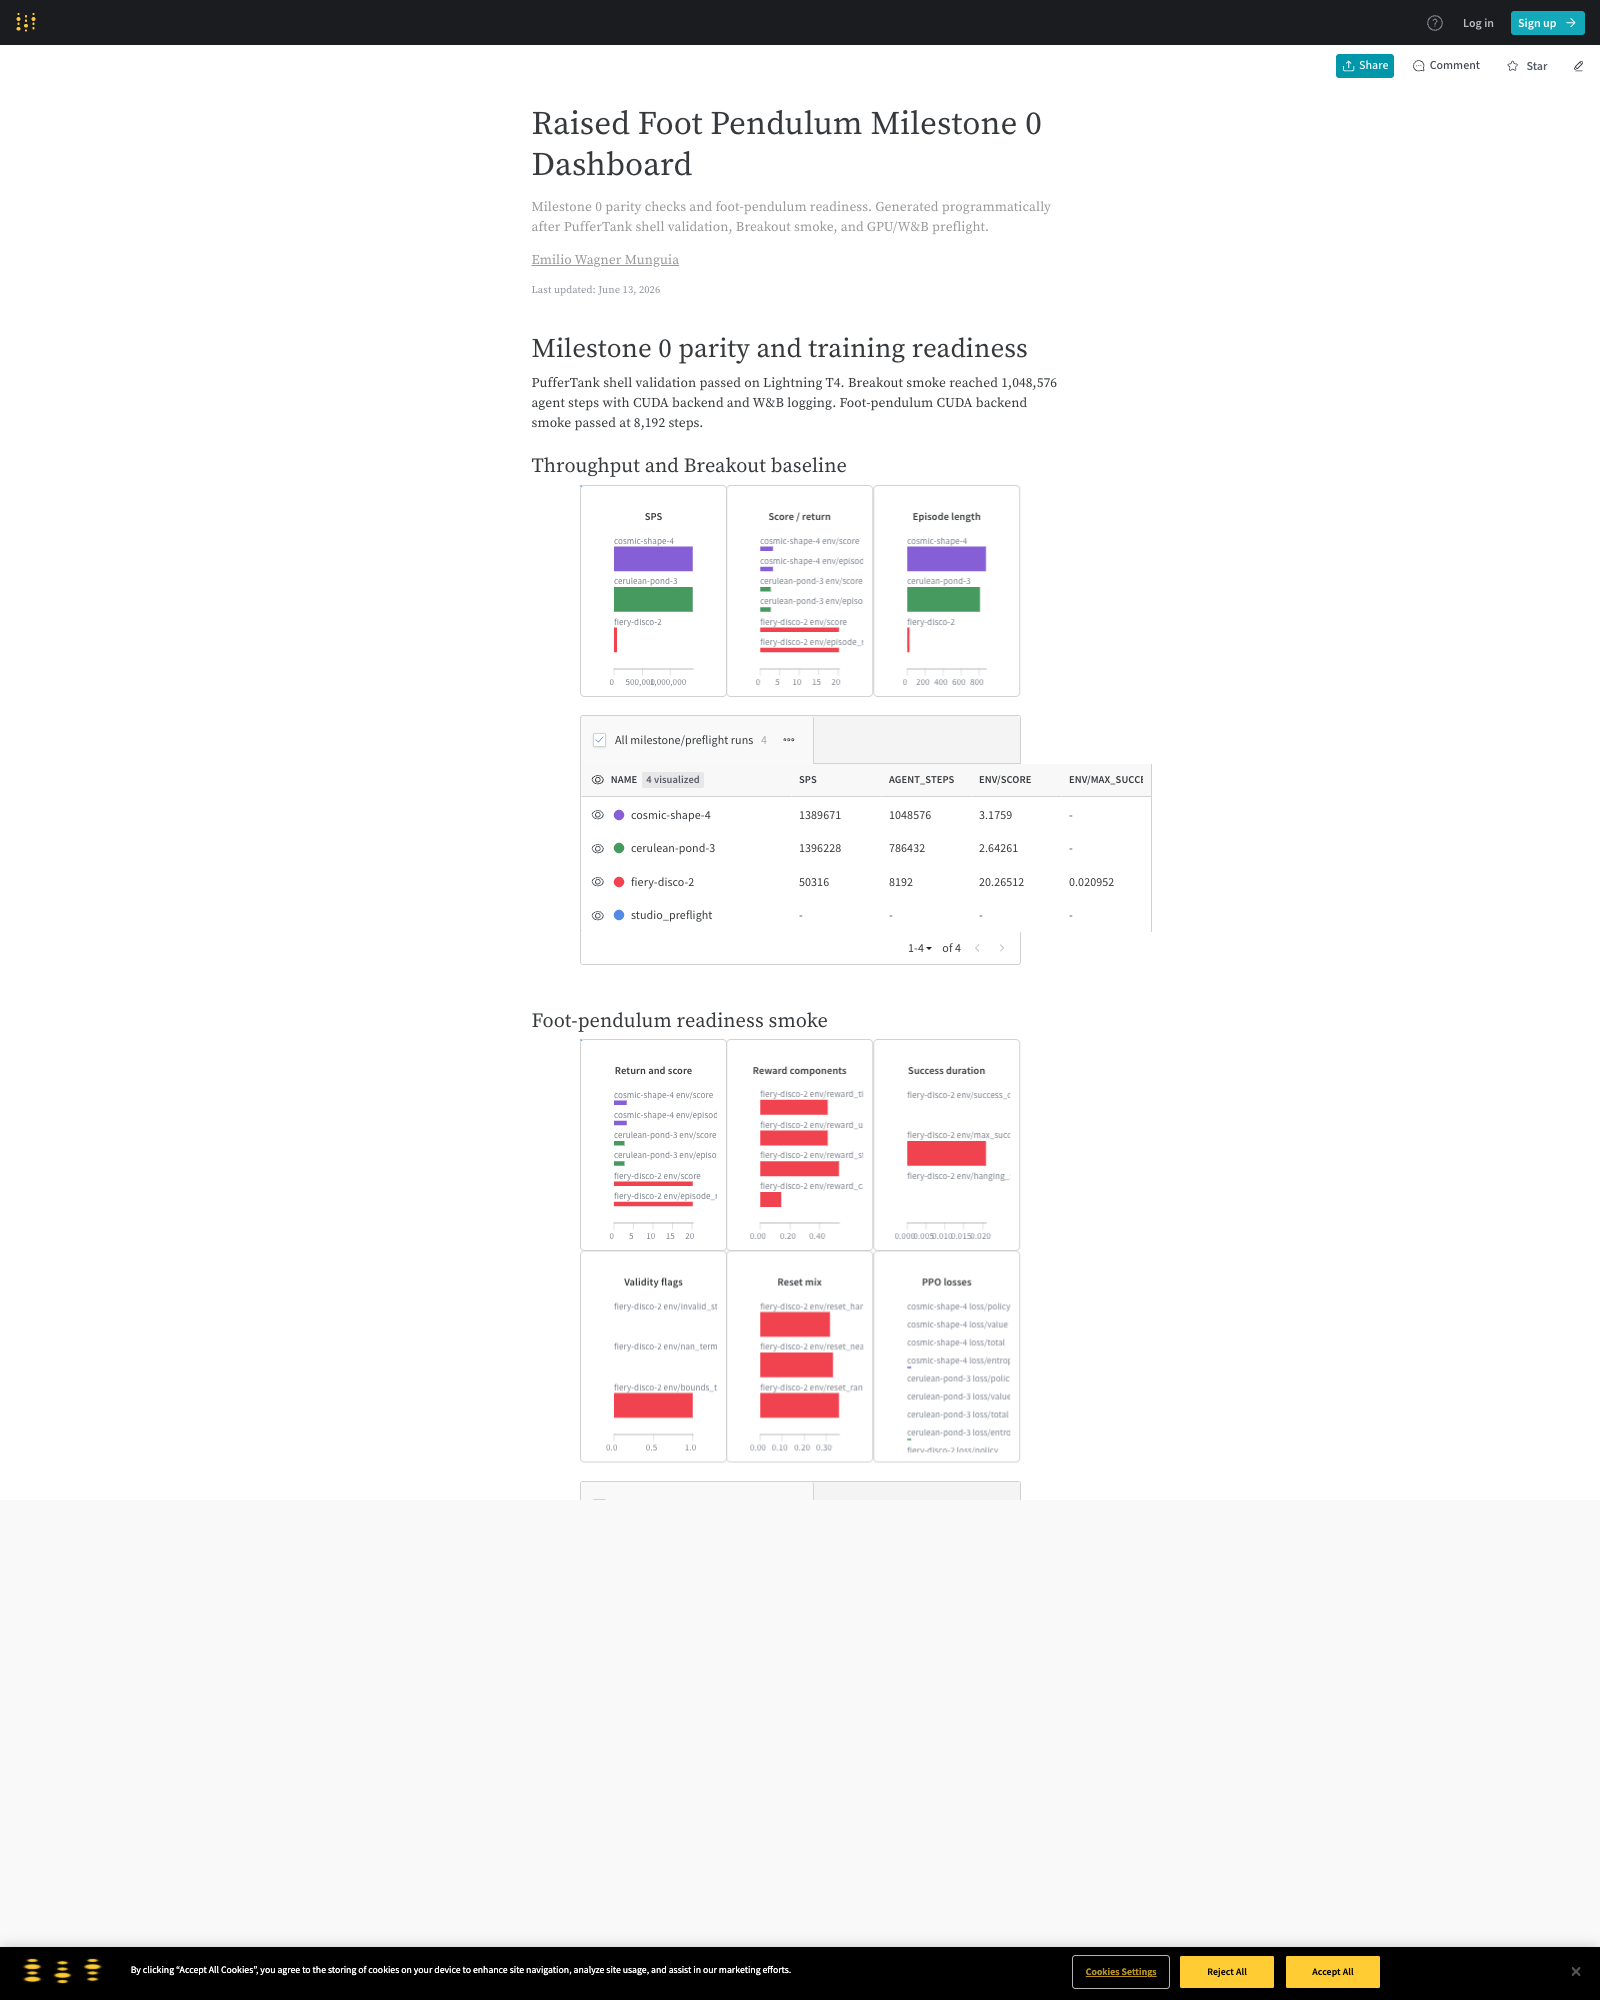
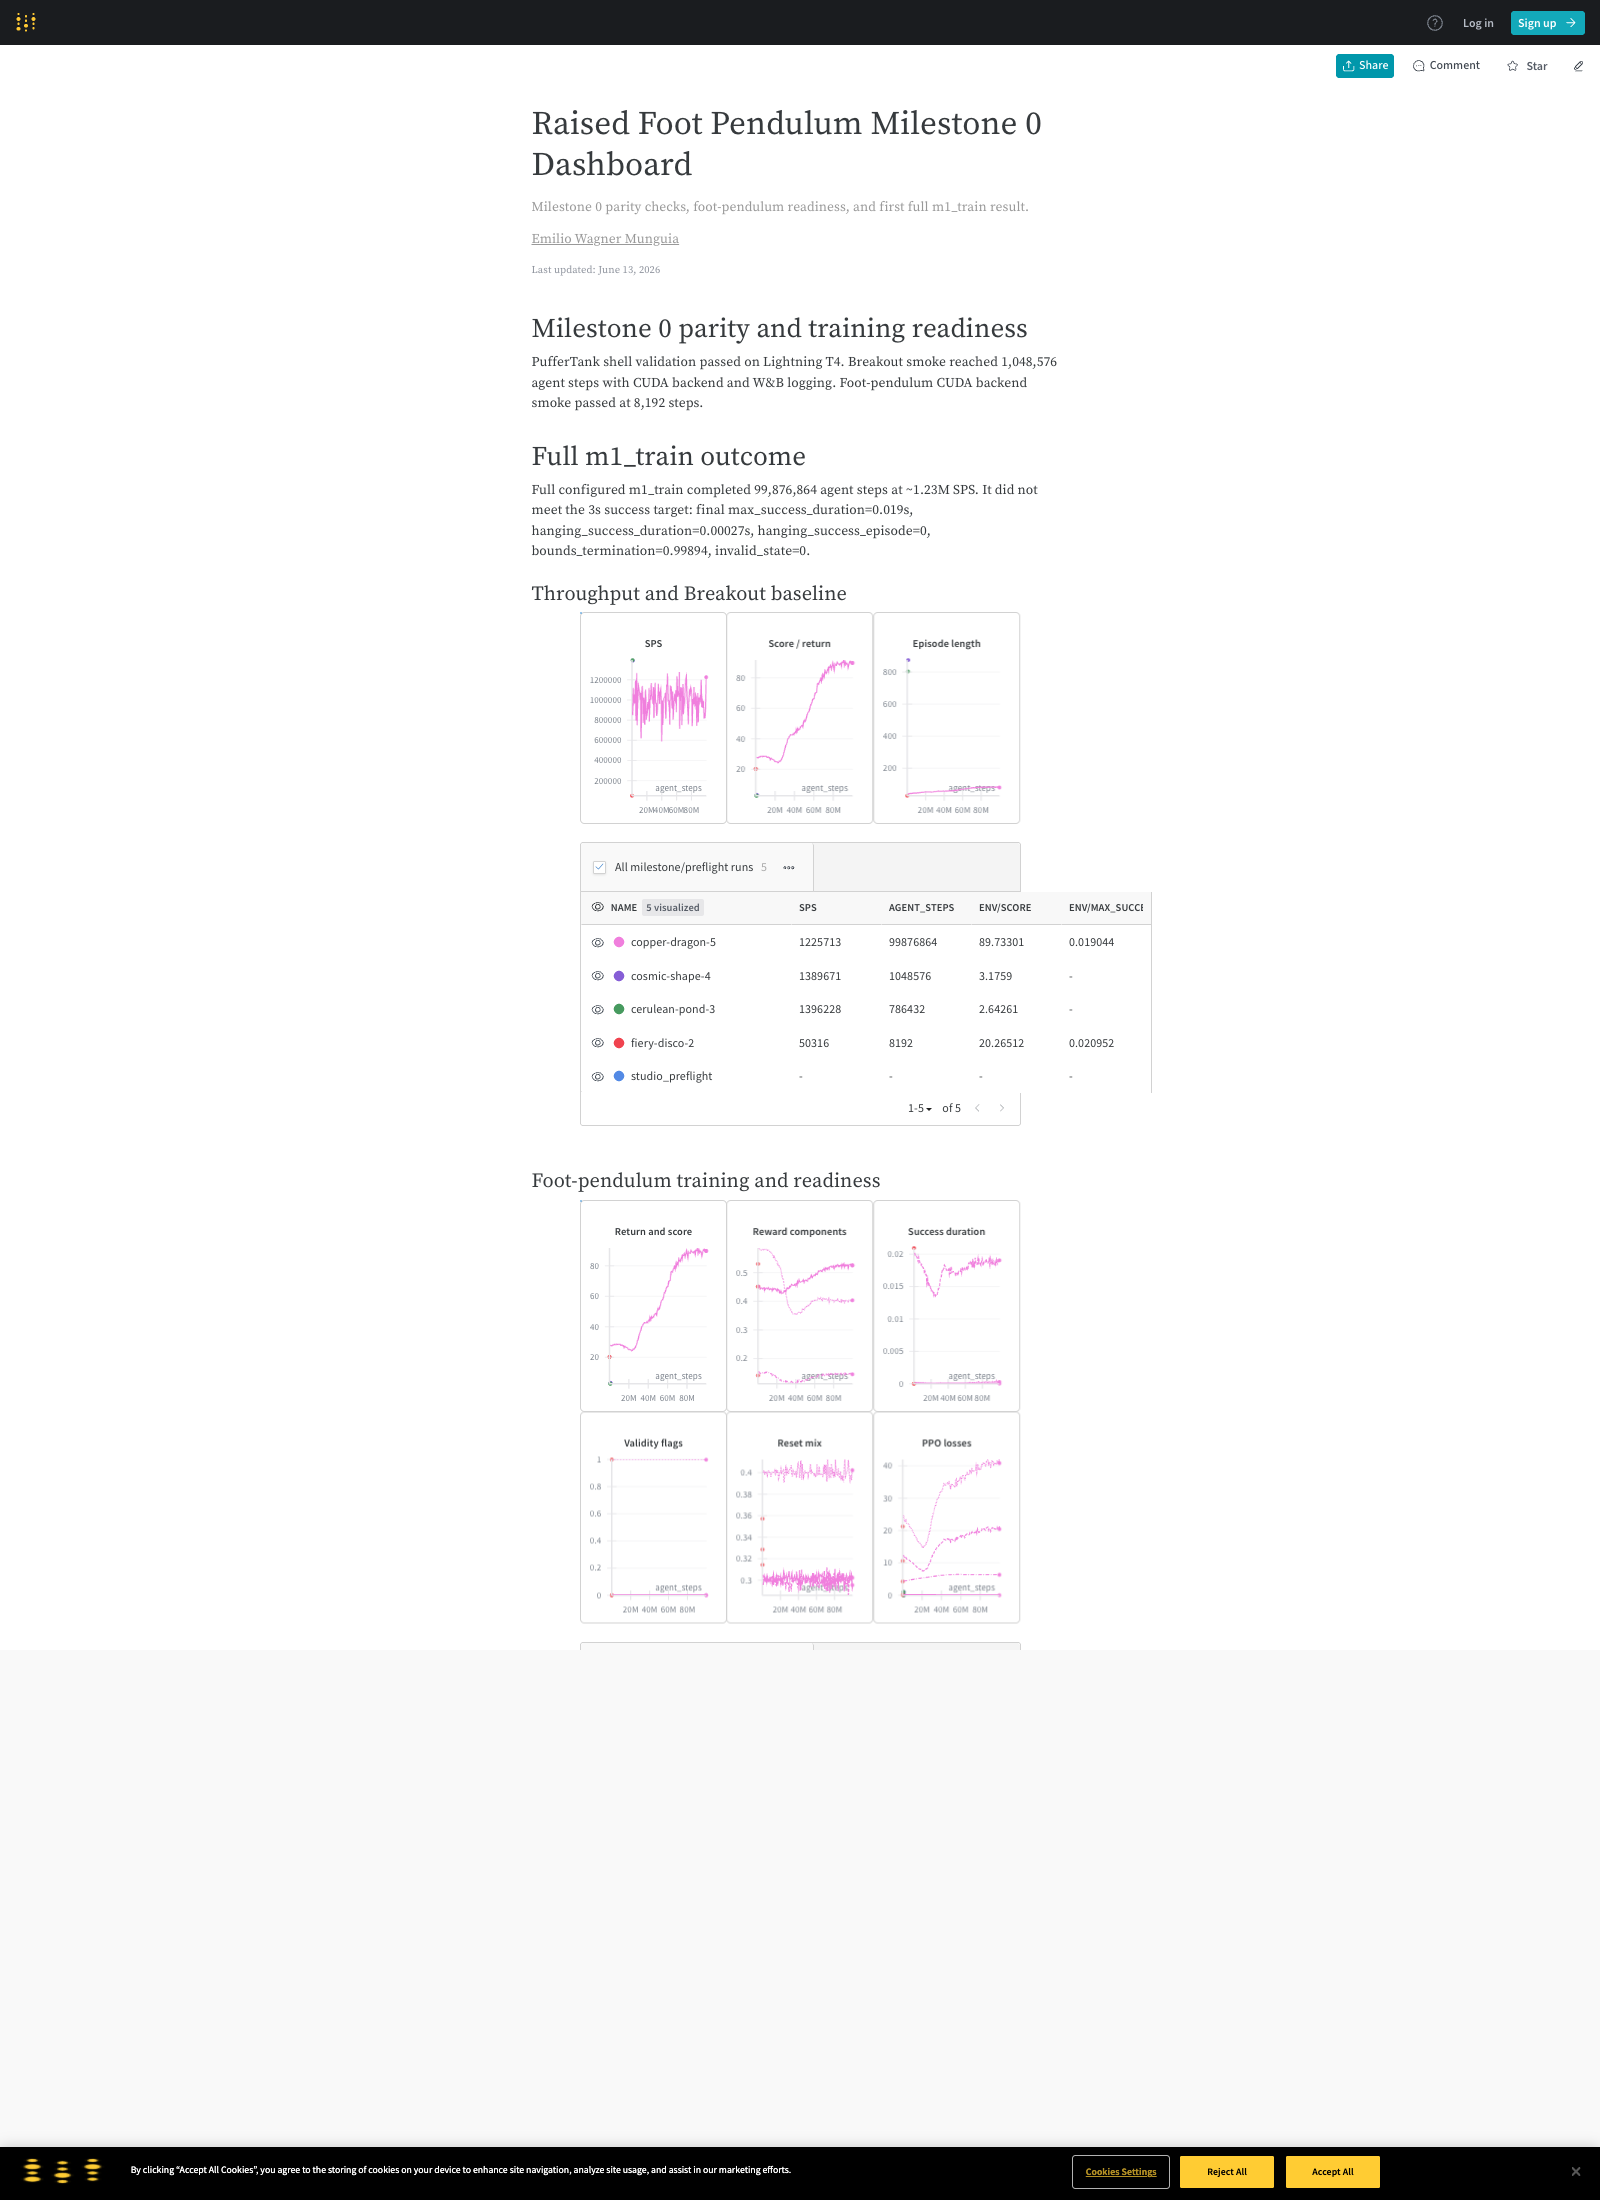
docs: record m1 training result

diff --git a/docs/raised_foot_pendulum/experiment_log.md b/docs/raised_foot_pendulum/experiment_log.md
@@ -8,3 +8,4 @@
 | STUDIO_GPU_TRAIN_SMOKE | 53702ba | foot_pendulum | studio_gpu_preflight | 8192 | 0.15 | 50316 | https://wandb.ai/emiliomunguia-none/raised-foot-pendulum/runs/qlpmd5n3 | Passed GPU trainer smoke | Lightning T4, CUDA backend build, 64 agents, horizon 64, minibatch 1024. W&B received PPO metrics and custom env metrics including reward components, success metrics, invalid-state flags, bounds termination, and reset mix. |
 | PUFFERTANK_BREAKOUT_1M | d21a161a | breakout | m0_breakout_1m_confirm | 1048576 | 0.17 | 1389671 | https://wandb.ai/emiliomunguia-none/raised-foot-pendulum/runs/crhsl1lu | Passed Breakout 1M smoke | Ran inside `pufferai/puffertank:4.0`; CUDA backend build passed; W&B logged `SPS`, `agent_steps`, PPO losses, `env/score`, `env/episode_return`, and `env/episode_length`. |
 | WANDB_M0_REPORT | 3d8ba57 | dashboard | m0_dashboard | 0 |  |  | https://wandb.ai/emiliomunguia-none/raised-foot-pendulum/reports/Raised-Foot-Pendulum-Milestone-0-Dashboard--VmlldzoxNzIyMDgzNA==?accessToken=zgzq2u8gopxhbm0d9lsx218czvqqtklmx54i9jzh60y88xm39ubtj20yt8yq2c5p | Passed dashboard capture | Programmatically created a shareable W&B report and saved screenshot `docs/raised_foot_pendulum/wandb_m0_dashboard_final.png`. |
+| M1_TRAIN_FULL | d75ea12 | foot_pendulum | m1_train | 99876864 | 1.87 | 1225713 | https://wandb.ai/emiliomunguia-none/raised-foot-pendulum/runs/p9pnocwa | Completed but did not meet 3s success target | Full configured Lightning T4 run completed. Final `score=89.733`, `max_success_duration=0.019`, `hanging_success_duration=0.00027`, `hanging_success_episode=0`, `bounds_termination=0.99894`, `invalid_state=0`; policy learned higher return but not sustained upright/hanging success. |

diff --git a/docs/raised_foot_pendulum/dashboard.md b/docs/raised_foot_pendulum/dashboard.md
@@ -80,6 +80,7 @@ Artifacts:
 - `studio_preflight`: `https://wandb.ai/emiliomunguia-none/raised-foot-pendulum/runs/pjaha87k`; verified W&B logging from the Lightning Studio.
 - `studio_gpu_preflight`: `https://wandb.ai/emiliomunguia-none/raised-foot-pendulum/runs/qlpmd5n3`; verified CUDA backend build, PPO metrics, and custom `env/*` metrics at 8,192 steps on Tesla T4.
 - `m0_breakout_1m_confirm`: `https://wandb.ai/emiliomunguia-none/raised-foot-pendulum/runs/crhsl1lu`; verified PufferTank CUDA build and Breakout smoke at 1,048,576 agent steps, ~1.39M SPS.
+- `m1_train`: `https://wandb.ai/emiliomunguia-none/raised-foot-pendulum/runs/p9pnocwa`; completed 99,876,864 agent steps at ~1.23M SPS. It did not meet the 3s success target: final `max_success_duration=0.019`, `hanging_success_duration=0.00027`, `bounds_termination=0.99894`.
 - W&B report: `https://wandb.ai/emiliomunguia-none/raised-foot-pendulum/reports/Raised-Foot-Pendulum-Milestone-0-Dashboard--VmlldzoxNzIyMDgzNA==?accessToken=zgzq2u8gopxhbm0d9lsx218czvqqtklmx54i9jzh60y88xm39ubtj20yt8yq2c5p`; share link enabled for unauthenticated viewing.
 - Dashboard screenshot: `docs/raised_foot_pendulum/wandb_m0_dashboard_final.png`.
 - Local CPU metric smoke: non-W&B `pufferlib.pufferl train foot_pendulum --slowly` run populated all custom metric groups in the terminal dashboard at ~65K SPS with 16 agents, horizon 64, total timesteps 8192.
